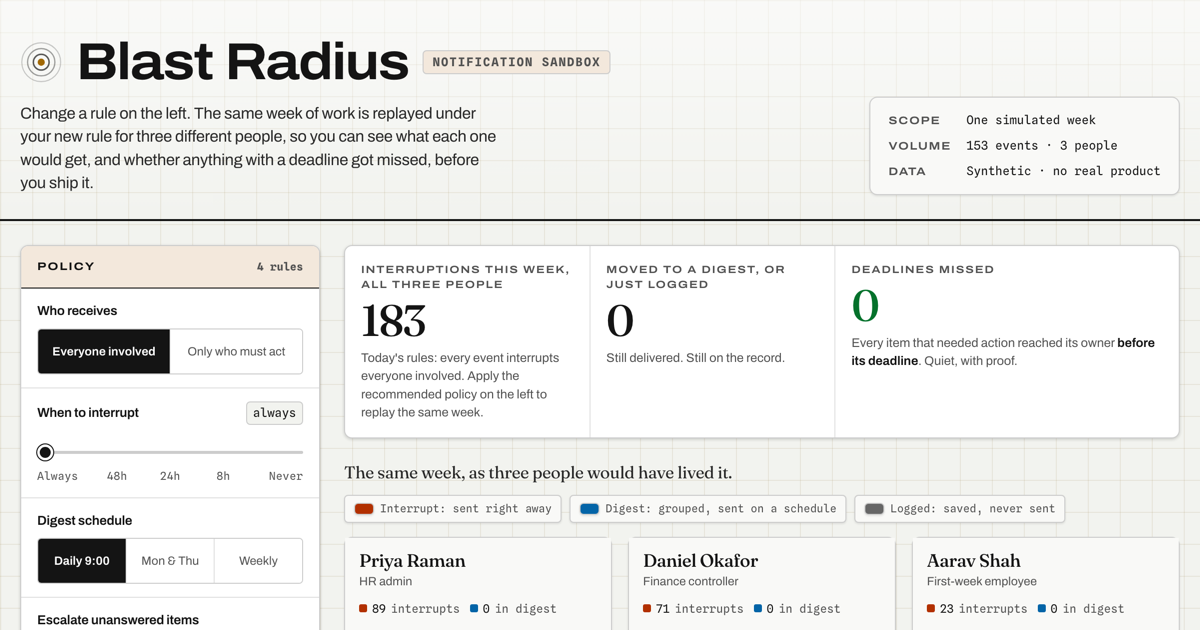
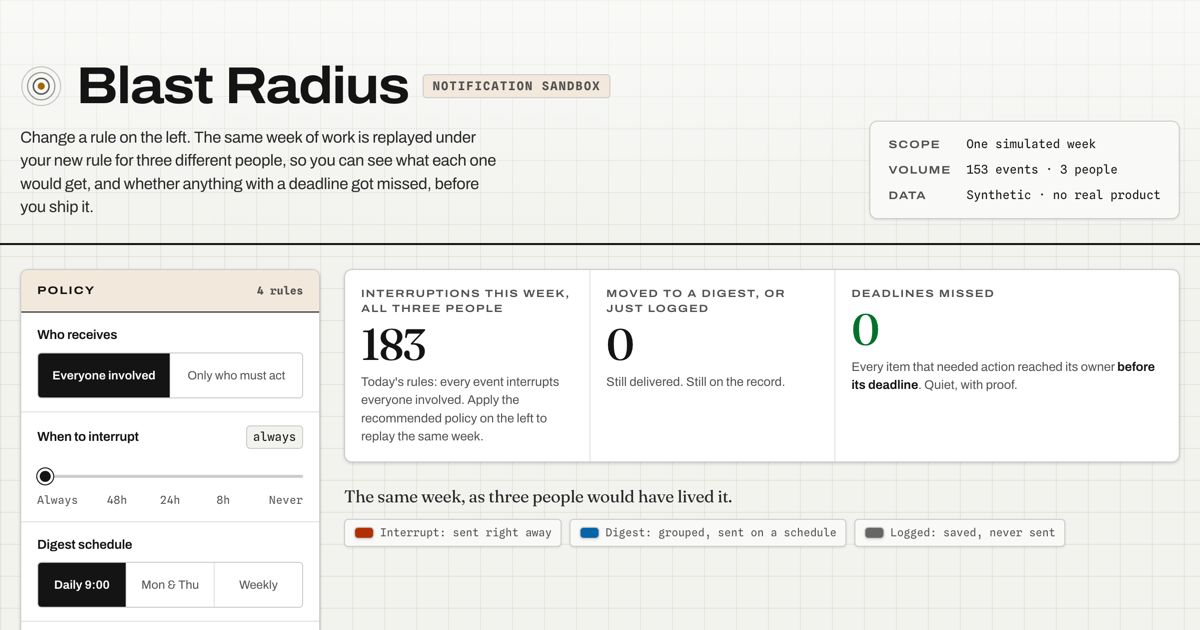
release: v0.137.0 — recut the /blast-radius share card so no text is severed
The v0.136.0 card cut through the persona stats line and the "Escalate
unanswered items" label. Root cause: the policy panel is 692px tall on its own,
so it bleeds past any 630px frame no matter where the frame starts. A naive
top-of-page screenshot puts that bleed on top of text.

Fixed by controlling where the cut lands rather than hoping it misses. A
capture-only stylesheet adds 24px of header padding, which drops the frame edge
23px below the Digest buttons and 5px above the Escalate label, so the panel
bleeds through a gap. The three feed columns are hidden for the capture: no row
of them ends inside 630px, so any framing that includes them severs an event.

Offsets were measured, not eyeballed. Sweeping 12/16/20/24/28px showed the
Escalate label still inside the frame at 12 and 16, and clearance below the
Digest buttons shrinking from 35px to 19px across the range; 24 is the widest
gap that still keeps the label out.

Everything now reads whole: full tagline, the complete scope box, all three
verdict cells with their captions, and the full legend. 202 KB.

The capture stylesheet is never injected into the shipped file, which is
unchanged in this release. The full recipe is recorded in the scriptorium so
the next regeneration does not rediscover this.

Changed region(s): [[0.0, 0.0603, 1.0, 0.9952], [0.4933, 0.6032, 0.6475, 0.6333]]

diff --git a/app/components/Img/manifest.generated.ts b/app/components/Img/manifest.generated.ts
@@ -35,7 +35,7 @@ export const imageManifest: Record<string, ImageManifestEntry> = {
   },
   "/blast-radius/og.png": {
     "dominantColor": "rgb(248, 248, 248)",
-    "thumbHash": "OvgFBIBAdnZmqJqHiHmKz/qLaA==",
+    "thumbHash": "OvgFBIBAdnZ3qJqIiHqK//6rJg==",
     "width": 1200,
     "height": 630,
     "hasAlpha": false,

diff --git a/docs/scriptorium/meta.md b/docs/scriptorium/meta.md
@@ -260,10 +260,31 @@ page itself rendered headless at 1200x630 (captured at 2x, downsampled), showing
 the brand, the policy panel and the verdict row at its load state: 183 / 0 / 0.
 It deliberately shows the *before* number, because that is what a visitor sees
 when they land; the 183-to-75 movement is carried by `twitter:description`
-instead. Regenerate with headless Chrome at `--window-size=1200,630
---force-device-scale-factor=2` against the live URL, then `sips -z 630 1200`.
-Re-run `npm run lqip` afterwards: the file sits under `public/`, so
-`generate-image-manifest.mjs` indexes it even though no `<Img>` consumes it.
+instead.
+
+**Regenerating it needs a capture-only stylesheet, or text gets cut.** The
+policy panel is 692px tall on its own, so it always bleeds past a 630px frame,
+and a naive screenshot severs both the Escalate label and the persona stats
+line. Copy `index.html` to a scratch file, inject before `</head>`:
+
+```html
+<style>header{padding-top:60px !important} #boxes{display:none !important}</style>
+```
+
+The +24px of header padding (36 to 60) puts the frame edge 23px below the Digest
+buttons and 5px above the Escalate label, so the bleed lands in a gap. `#boxes`
+goes because no row of the three feed columns ends inside 630px. Then:
+
+```
+Chrome --headless=new --hide-scrollbars --window-size=1200,630 \
+  --force-device-scale-factor=2 --virtual-time-budget=12000 \
+  --screenshot=out.png file://<scratch>.html
+sips -z 630 1200 out.png --out og.png
+```
+
+Never inject that stylesheet into the shipped file. Re-run `npm run lqip`
+afterwards: the file sits under `public/`, so `generate-image-manifest.mjs`
+indexes it even though no `<Img>` consumes it.
 
 **Favicon is an inline data-URI SVG**, not a file, so the page stays
 self-contained. It redraws the header's own `.rings` bullseye with heavier
